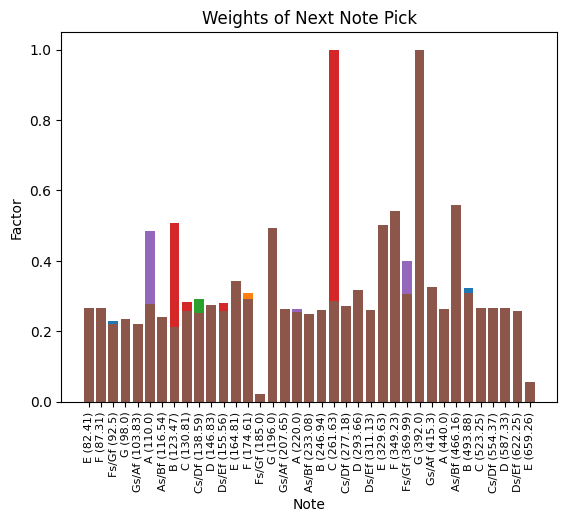
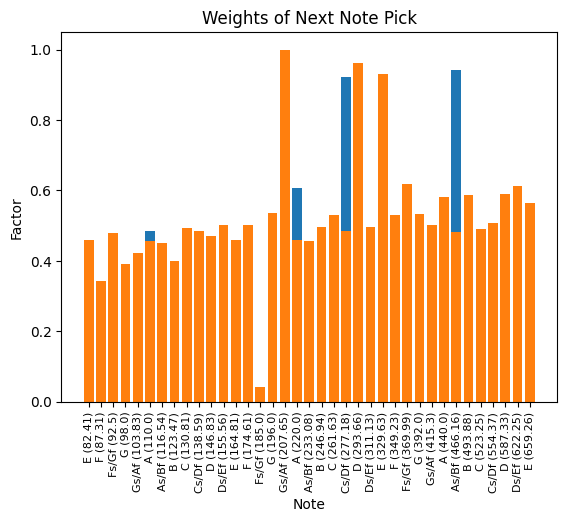
added no wrong notes option

Changed region(s): [[0.1499, 0.092, 0.9594, 0.7969]]

diff --git a/play_notes.py b/play_notes.py
@@ -51,7 +51,7 @@ def choose_note(curr_stats, saved_data):
     prob_dist = calc_prob_dist_guessmaker(saved_data)
 
     # add small number to ensure zero one is not zero anymore
-    SMALL_NUM = (1/78)
+    SMALL_NUM = (1/78)/5
     prob_dist = [x + SMALL_NUM for x in prob_dist]
 
     if RANDOM_NOT_DYNAMIC_PICKING:
@@ -88,6 +88,9 @@ if __name__ == "__main__":
 
     # init sound library
     pygame.mixer.init(SAMPLE_RATE,-16,2,512)
+
+    # init wrong sound
+    error_sound = pygame.mixer.Sound('error.ogg')
 
     # change window title
     pygame.display.set_caption('LearnFretboard')
@@ -285,6 +288,10 @@ if __name__ == "__main__":
                         loc_text = BUTTON_FONT.render(f'{string_idx_to_letter(predict_note.string_idx)} string {predict_note.fret_idx} fret', True, SUCCESS_GREEN)
                     
                     else:
+                        if NO_WRONG:
+                            error_sound.play()
+                            continue
+
                         curr_stats["num_wrong"] += 1
 
                          # create failure text

diff --git a/play_intervals.py b/play_intervals.py
@@ -53,7 +53,7 @@ def choose_interval(curr_stats, saved_data):
     prob_dist = calc_prob_dist_guessmaker(saved_data)
 
     # add small number to ensure zero one is not zero anymore
-    SMALL_NUM = (1/6084) # there are 6084 unique intervals
+    SMALL_NUM = (1/6084)/5 # there are 6084 unique intervals
 
     prob_dist = [x + SMALL_NUM for x in prob_dist]
 
@@ -119,6 +119,9 @@ if __name__ == "__main__":
 
     # init sound library
     pygame.mixer.init(SAMPLE_RATE,-16,2,512)
+
+    # init wrong sound
+    error_sound = pygame.mixer.Sound('error.ogg')
 
     # change window title
     pygame.display.set_caption('LearnFretboard')
@@ -302,6 +305,10 @@ if __name__ == "__main__":
                     
                     # record incorrect guess
                     else:
+                        if NO_WRONG:
+                            error_sound.play()
+                            continue
+                        
                         curr_stats["num_wrong"] += 1
                         
                         # create failure text

diff --git a/constants.py b/constants.py
@@ -76,4 +76,7 @@ GUESS_OUTLIER_AVG = 3 # how many guesses are used to detect outlier entries
 RANDOM_NOT_DYNAMIC_PICKING = False
 
 # Only show Intervals with half-step distance less than 
-MAX_INTERVAL_DISTANCE = 13
+MAX_INTERVAL_DISTANCE = 100
+
+# If NO_WRONG = True then your mistakes won't be registerd
+NO_WRONG = True
